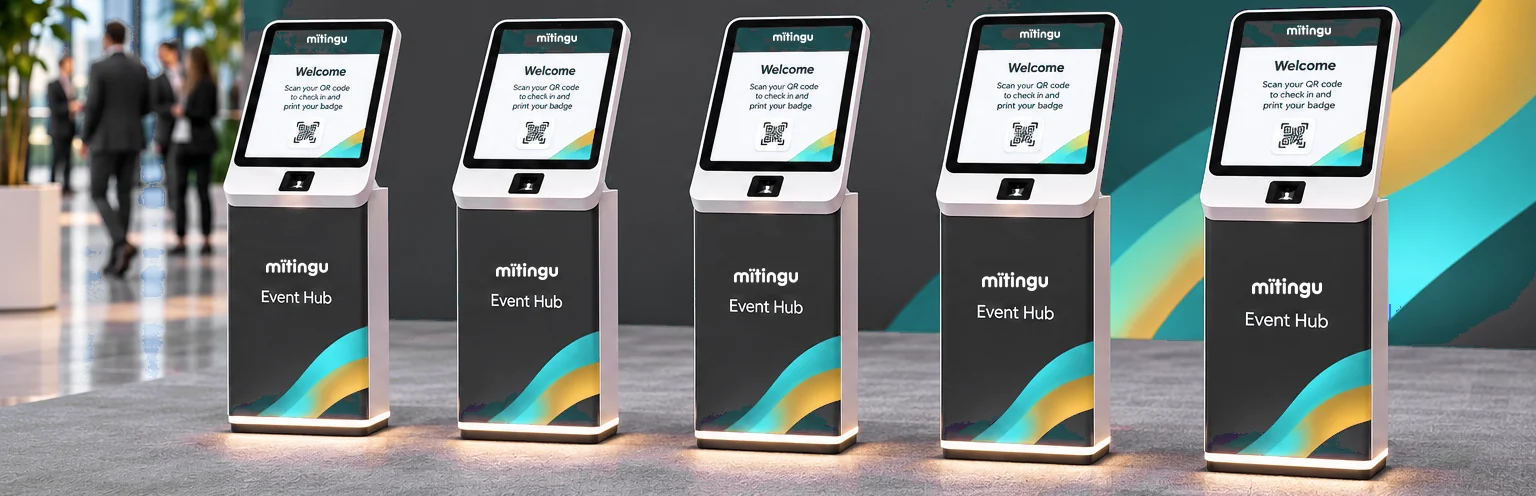
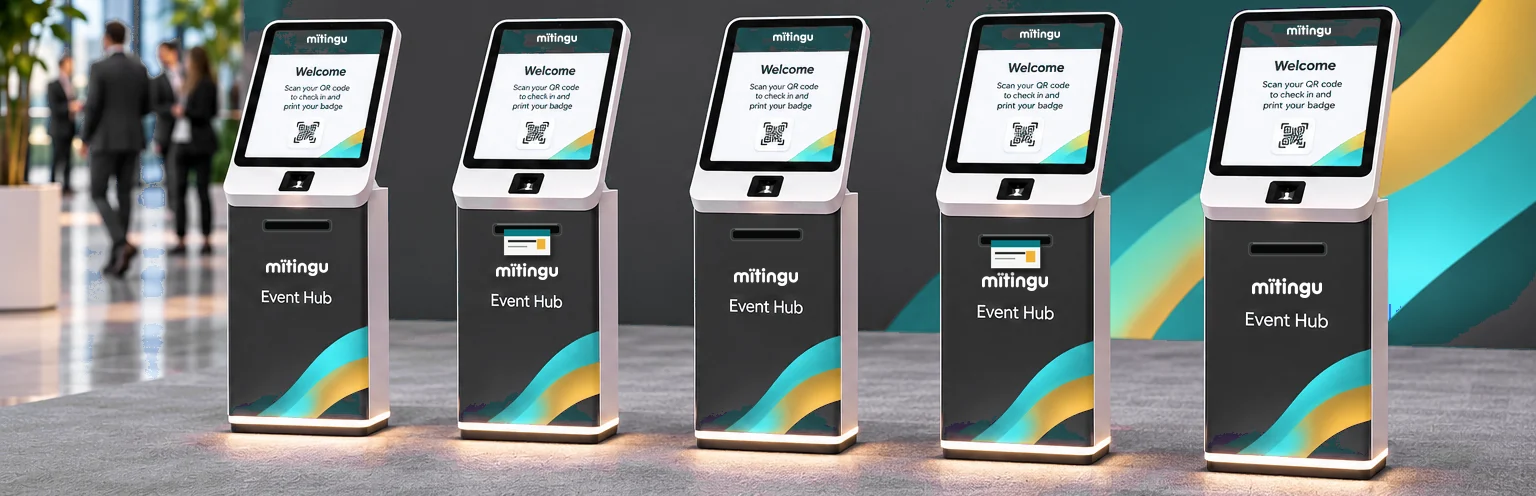
Homepage: badge printer slots on the Event Hub booths, and the check-in to information-point switch
Claude-Session: https://claude.ai/code/session_0164TzKSghcBB6jGoTFvqHYc

diff --git a/src/styles.css b/src/styles.css
@@ -3910,3 +3910,38 @@ textarea:focus {
     object-position: 50% 50%;
   }
 }
+
+.hp-switch {
+  display: grid;
+  grid-template-columns: minmax(0, 0.8fr) minmax(0, 1.2fr);
+  gap: 48px;
+  align-items: center;
+  margin: -16px 0 72px;
+}
+
+.hp-switch h3 {
+  margin: 0 0 14px;
+  color: #ffffff;
+  font-size: clamp(1.4rem, 2.2vw, 1.8rem);
+  line-height: 1.15;
+}
+
+.hp-switch p {
+  margin: 0;
+  line-height: 1.65;
+}
+
+.hp-switch img {
+  display: block;
+  width: 100%;
+  height: auto;
+  border-radius: 14px;
+}
+
+@media (max-width: 900px) {
+  .hp-switch {
+    grid-template-columns: minmax(0, 1fr);
+    gap: 24px;
+    margin-top: 0;
+  }
+}
